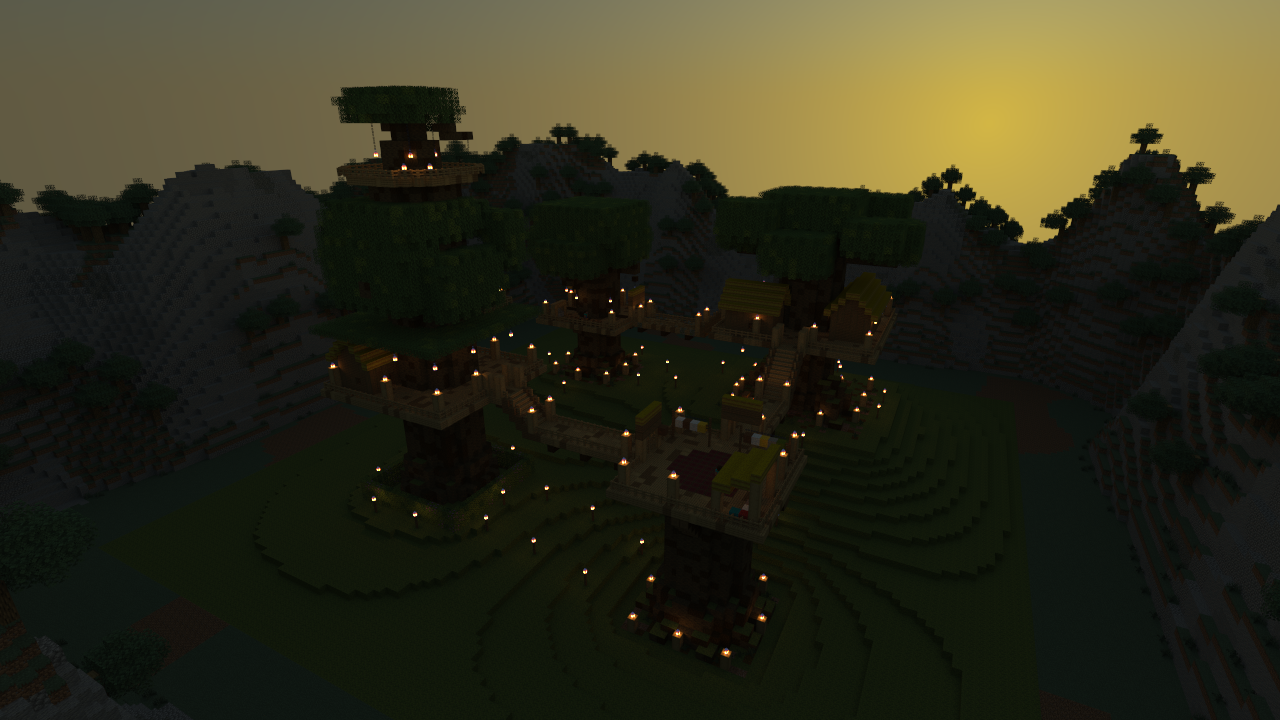
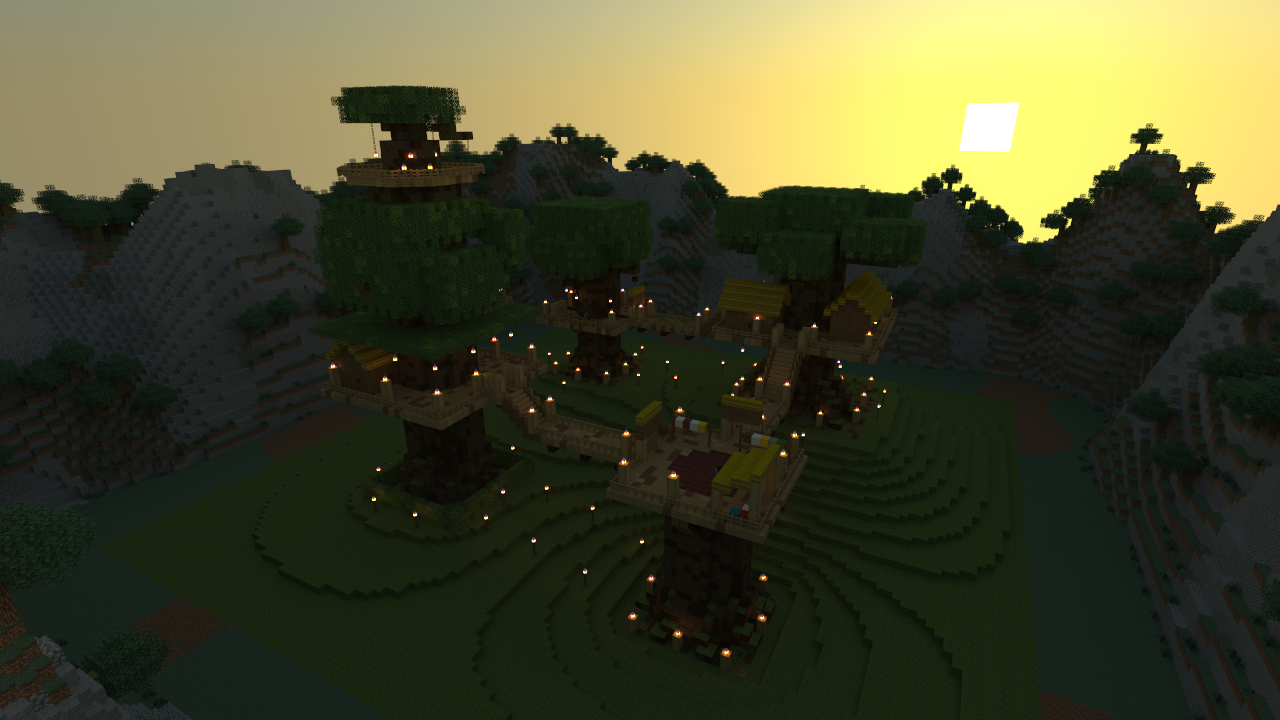
docs: the treehouse showcase is re-rendered after the dusk port
Four HQ images (camp and bridge, day and dusk) re-rendered on the RTX 4070 Ti
SUPER via CUDA at c449c97, each twice with byte-identical PNGs. Kernel times:
camp day 90.1 s, bridge day 121.2 s, camp dusk 330.8 s, bridge dusk 444.0 s.
The dusk text now describes Chunky's sunset sky and the drawn sun; the
statement that LW fades the sky is removed.

Claude-Session: https://claude.ai/code/session_016ba8LkuKW2bd5C5HCDo7p2

Changed region(s): [[0.0, 0.0, 1.0, 0.3361], [0.0312, 0.8861, 0.0625, 0.9167]]

diff --git a/README.md b/README.md
@@ -17,7 +17,7 @@ Both modes run on several native backends: **CPU** (all cores), **Metal**, **Vul
 
 ![The Treehouse Camp by day, path traced](docs/renders/treehouse-camp-day-hq.png)
 
-*hq · `--time 4000` · 4096 spp · 8 bounces · CUDA on an NVIDIA GeForce RTX 4070 Ti SUPER · 90 s end to end*
+*hq · `--time 4000` · 4096 spp · 8 bounces · CUDA on an NVIDIA GeForce RTX 4070 Ti SUPER · 92 s end to end*
 
 | | quick (vanilla look) | hq (path traced) |
 |---|---|---|
@@ -36,13 +36,12 @@ lanterns and campfires as emitters at intensity 13 with one emitter sampled per 
 and the display gamma 2.2. By day the sun and the sky light the camp, and each lantern lights
 the post it stands on.
 
-At `--time 12800` the sun stands on the horizon. Quick mode draws the client's sunset: the sun
-disc, the orange glow and the light the game stored in the save. HQ mode draws the Preetham
-sky's sunset, a yellow glow around the sun's place on the horizon, dimmed by Lumenwright's own
-fade as the sun goes down (Chunky's sky keeps its full sunset brightness; see
-[docs/research/chunky-parity.md](docs/research/chunky-parity.md)). The sun at the horizon
-casts no light, so the camp is lit by that dim sky and by its lanterns, which glow and light
-little more than the block they stand on.
+At `--time 12800` the sun stands just below the horizon. Quick mode draws the client's sunset:
+the sun disc, the orange glow and the light the game stored in the save. HQ mode draws
+Chunky's sunset: the Preetham sky at its full sunset light, with the client's sun texture drawn
+at the sun's place. A sun below the horizon casts no light, so the camp is lit by that sky and
+by its lanterns, which glow and light little more than the block they stand on (see
+[docs/research/chunky-parity.md](docs/research/chunky-parity.md)).
 
 Each image's command, run from the repository root with the save from
 [Get the camp](#get-the-camp) in `the-treehouse-camp`. The HQ commands need the CUDA build
@@ -74,9 +73,9 @@ target/release/lumenwright render -w the-treehouse-camp --camera 60,93,22 --look
 | image | Apple M2 Pro, Metal (end to end) | RTX 4070 Ti SUPER, CUDA (end to end / in the kernel) |
 |---|---|---|
 | camp, quick, day / dusk | 0.27 s / 0.27 s | |
-| camp, hq, day (4096 spp) / dusk (16384 spp) | | 90 s / 341 s (89 s / 340 s) |
+| camp, hq, day (4096 spp) / dusk (16384 spp) | | 92 s / 333 s (90 s / 331 s) |
 | bridge, quick, day / dusk | 0.23 s / 0.23 s | |
-| bridge, hq, day (4096 spp) / dusk (16384 spp) | | 120 s / 464 s (119 s / 462 s) |
+| bridge, hq, day (4096 spp) / dusk (16384 spp) | | 123 s / 447 s (121 s / 444 s) |
 
 The quick times are the second of two runs. The 4070 Ti SUPER runs under WSL2 on a 16-thread PC.
 Each HQ image rendered twice with the same command on the CUDA backend gave byte-identical
